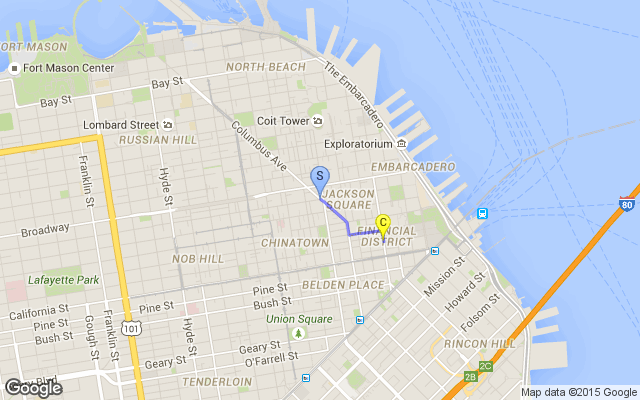
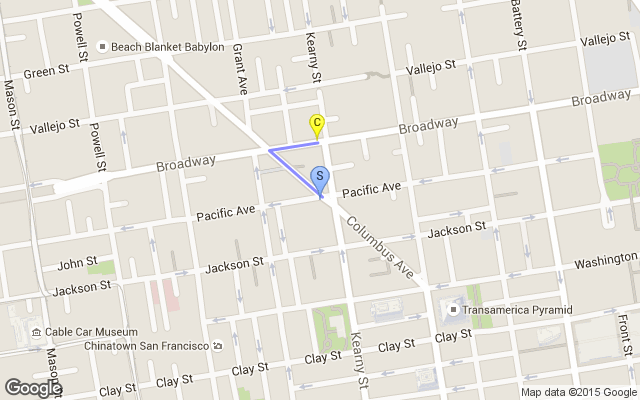
Improved Accuracy

diff --git a/src/taxidriverproject/KMeans.java b/src/taxidriverproject/KMeans.java
@@ -3,14 +3,16 @@ import java.util.ArrayList;
 
 public class KMeans {
     
-    private ArrayList<DataPoint> centroids,data;
-    private ArrayList<Integer> clusterOf;
+    private ArrayList<DataPoint> centroids, data, tempCentroids;
+    private ArrayList<Integer> clusterOf, tempClusterOf;
     private int clusters,samples;
-    private int noOfIterations;
+    private int noOfIterations, noOfRandomInit;
+    
     
     KMeans()
     {
-        noOfIterations = 100;
+        noOfRandomInit = 12;
+        noOfIterations = 50;
     }
     
     public ArrayList<DataPoint> KMeansAlgo(ArrayList<DataPoint> x,int y)
@@ -22,51 +24,66 @@ public class KMeans {
         centroids = new ArrayList<>(); //cluster Centroid Positions
         clusterOf = new ArrayList<>(); //cluster assigned to the ith sample
         
-        double minDist,curDist;
+        double minDist,curDist, minCost;
+        minCost = Math.pow(2, 100);
        
-        setCentroidsRandomly();       
-        for(int i=0;i<samples;i++)clusterOf.add(0);
- 
-        while(noOfIterations-- > 0)
-        {
-            //assignment of the cluster centroids
+        while(noOfRandomInit-- > 0)
+        {   
+            setCentroidsRandomly();    
+            clusterOf = new ArrayList<>();
             for(int i=0;i<samples;i++)
+                clusterOf.add(0);
+
+            while(noOfIterations-- > 0)
             {
-                minDist = DataPoint.dist(centroids.get(0), data.get(i));
-                for(int j=1;j<clusters;j++)
+                //assignment of the cluster centroids
+                for(int i=0;i<samples;i++)
                 {
-                    curDist = DataPoint.dist(centroids.get(j),data.get(i)); 
-                    if(curDist < minDist)
+                    minDist = DataPoint.dist(centroids.get(0), data.get(i));
+                    for(int j=1;j<clusters;j++)
                     {
-                        minDist = curDist;
-                        clusterOf.set(i, j);
+                        curDist = DataPoint.dist(centroids.get(j),data.get(i)); 
+                        if(curDist < minDist)
+                        {
+                            minDist = curDist;
+                            clusterOf.set(i, j);
+                        }
                     }
                 }
-            }
-            //assignment of the cluster centroids done
-            //moving the cluster centroid to their new position
-            for(int i=0;i<clusters;i++)
-            {
-                DataPoint newCentroid = new DataPoint();
-                double counter = 0;
-                for(int j=0;j<samples;j++)
+                //assignment of the cluster centroids done
+                //moving the cluster centroid to their new position
+                for(int i=0;i<clusters;i++)
                 {
-                    if(clusterOf.get(j) ==  i)
+                    DataPoint newCentroid = new DataPoint();
+                    double counter = 0;
+                    for(int j=0;j<samples;j++)
                     {
-                        counter++;
-                        newCentroid.lat = newCentroid.lat + data.get(j).lat;
-                        newCentroid.lon = newCentroid.lon + data.get(j).lon;
+                        if(clusterOf.get(j) ==  i)
+                        {
+                            counter++;
+                            newCentroid.lat = newCentroid.lat + data.get(j).lat;
+                            newCentroid.lon = newCentroid.lon + data.get(j).lon;
+                        }
                     }
+                    newCentroid.lat = newCentroid.lat/counter;
+                    newCentroid.lon = newCentroid.lon/counter;
+                    centroids.set(i, newCentroid) ;
                 }
-                newCentroid.lat = newCentroid.lat/counter;
-                newCentroid.lon = newCentroid.lon/counter;
-                centroids.set(i, newCentroid) ;
+                //cluster centroids updated
+
+
+                //System.out.println(cost);   
             }
-            //cluster centroids updated
-            
             double cost = costFunc(); 
-            //System.out.println(cost);   
+            if(cost < minCost)
+            {
+                   tempCentroids = centroids;  //Temporary storing centroids and Clusterof
+                   tempClusterOf = clusterOf;
+                   minCost = cost;
+            }
         }
+        centroids = tempCentroids;
+        clusterOf = tempClusterOf;
         return centroids;
     }
     

diff --git a/src/taxidriverproject/CentroidPredictor.java b/src/taxidriverproject/CentroidPredictor.java
@@ -32,6 +32,9 @@ public class CentroidPredictor {
         double maximum = 0.0;
         distanceFromSource = new ArrayList<>();
         timeFromSource = new ArrayList<>();
+        
+        
+        // Extract Distance and Time
         for(int i = 0;i<centroids.size();i++)
         {
             MapNode node = new MapNode(SourceInfo.lat,SourceInfo.lon,centroids.get(i).lat,centroids.get(i).lon); 
@@ -39,8 +42,12 @@ public class CentroidPredictor {
             distanceFromSource.add(googleMaps.getDistance());
             timeFromSource.add(googleMaps.getTime());
         }
+        
+        //Normalise Distance and Time
         distanceFromSource = normaliseDouble(distanceFromSource);
         timeFromSource = normaliseDouble(timeFromSource);
+        
+        //Predict the best Centroid
         for(int i=0;i<centroids.size();i++)
         { 
             double prob_success = hypothesis(densityAtEachCentroid.get(i),crowdAtEachCentroid.get(i),distanceFromSource.get(i),timeFromSource.get(i));
@@ -50,21 +57,22 @@ public class CentroidPredictor {
                 pos = i;
             }
         }
+        
+        //return it
         preferredCentroid = centroids.get(pos);
         return centroids.get(pos);
     }
 
-    private double hypothesis(double croudDensity,double crowd,double distance,double time)
+    private double hypothesis(double crowdDensity,double crowd,double distance,double time)
     {
-        double success =  (croudDensity * crowd)/(distance * time);
-        System.out.println(croudDensity + " " + crowd + " " +distance + " "+ time);
+        double success =  (crowdDensity * crowd)/(distance * time);
+        System.out.println(crowdDensity + " " + crowd + " " +distance + " "+ time);
         return success;
     }
     
     
     /**
-     * Utility Function
-     * 
+     * Utility Functions
      */
     private ArrayList<DataPoint> parseLatLon(ArrayList<DataPoint> L)
     {

diff --git a/src/taxidriverproject/Utility.java b/src/taxidriverproject/Utility.java
@@ -80,7 +80,7 @@ public class Utility {
             case 2:
                 return "https://maps.googleapis.com/maps/api/staticmap?center="
                         + m.sLat+","+m.sLon
-                        + "&zoom=14"
+                        + "&zoom=16"
                         + "&size=640x400"
                         +"&markers=color:blue%7Clabel:S%7C"
                         + m.sLat + "," + m.sLon +
